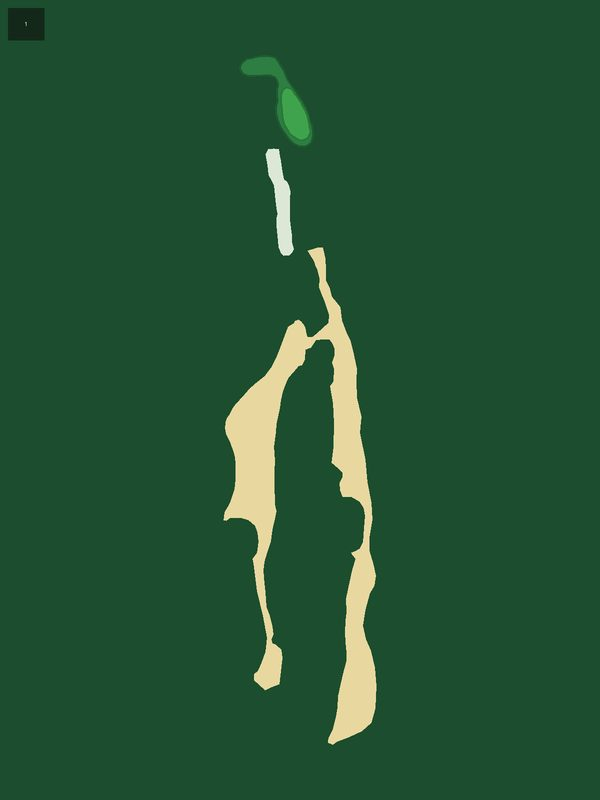
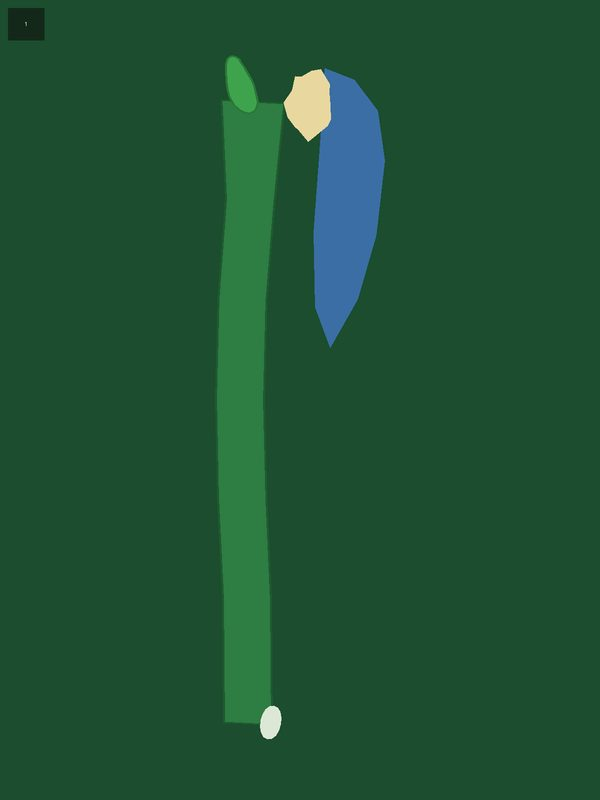
Ocean Course Kiawah Island: fix map geometry (H1/H12/H13/H16 water, H2 mirror) + to-pin markers + distance scales

Changed region(s): [[0.36, 0.0625, 0.66, 0.9375]]

diff --git a/app/lib/widgets/hole_map_manifest.dart b/app/lib/widgets/hole_map_manifest.dart
@@ -292,24 +292,24 @@ const holeMapManifest = <String, Map<int, HoleMapAsset>>{
     18: HoleMapAsset(par: 4, map: 'assets/hole_maps/tpc-southwind/18.jpg', mask: 'assets/hole_maps/tpc-southwind/18_mask.png', tee: Offset(0.362, 0.916), pin: Offset(0.359, 0.131), source: 'osm'),
   },
   'The Ocean Course at Kiawah Island': {
-    1: HoleMapAsset(par: 4, map: 'assets/hole_maps/ocean-course-kiawah-island/1.jpg', mask: 'assets/hole_maps/ocean-course-kiawah-island/1_mask.png', tee: Offset(0.456, 0.903), pin: Offset(0.491, 0.144), source: 'osm'),
+    1: HoleMapAsset(par: 4, map: 'assets/hole_maps/ocean-course-kiawah-island/1.jpg', mask: 'assets/hole_maps/ocean-course-kiawah-island/1_mask.png', tee: Offset(0.451, 0.903), pin: Offset(0.404, 0.106), source: 'osm'),
     2: HoleMapAsset(par: 5, map: 'assets/hole_maps/ocean-course-kiawah-island/2.jpg', mask: 'assets/hole_maps/ocean-course-kiawah-island/2_mask.png', tee: Offset(0.441, 0.885), pin: Offset(0.469, 0.193), source: 'synthetic'),
     3: HoleMapAsset(par: 4, map: 'assets/hole_maps/ocean-course-kiawah-island/3.jpg', mask: 'assets/hole_maps/ocean-course-kiawah-island/3_mask.png', tee: Offset(0.411, 0.889), pin: Offset(0.407, 0.099), source: 'synthetic'),
-    4: HoleMapAsset(par: 4, map: 'assets/hole_maps/ocean-course-kiawah-island/4.jpg', mask: 'assets/hole_maps/ocean-course-kiawah-island/4_mask.png', tee: Offset(0.580, 0.917), pin: Offset(0.579, 0.125), source: 'synthetic'),
-    5: HoleMapAsset(par: 3, map: 'assets/hole_maps/ocean-course-kiawah-island/5.jpg', mask: 'assets/hole_maps/ocean-course-kiawah-island/5_mask.png', tee: Offset(0.382, 0.758), pin: Offset(0.394, 0.160), source: 'synthetic'),
+    4: HoleMapAsset(par: 4, map: 'assets/hole_maps/ocean-course-kiawah-island/4.jpg', mask: 'assets/hole_maps/ocean-course-kiawah-island/4_mask.png', tee: Offset(0.580, 0.917), pin: Offset(0.579, 0.125), source: 'synthetic', yardages: const [YardageMarker(offset: Offset(0.508, 0.431), yards: 195), YardageMarker(offset: Offset(0.509, 0.475), yards: 216), YardageMarker(offset: Offset(0.507, 0.528), yards: 249)], yardsPerPixel: 0.7561),
+    5: HoleMapAsset(par: 3, map: 'assets/hole_maps/ocean-course-kiawah-island/5.jpg', mask: 'assets/hole_maps/ocean-course-kiawah-island/5_mask.png', tee: Offset(0.382, 0.758), pin: Offset(0.394, 0.160), source: 'synthetic', yardages: const [YardageMarker(offset: Offset(0.421, 0.132), yards: -14), YardageMarker(offset: Offset(0.436, 0.236), yards: 34), YardageMarker(offset: Offset(0.380, 0.399), yards: 99)], yardsPerPixel: 0.5163),
     6: HoleMapAsset(par: 4, map: 'assets/hole_maps/ocean-course-kiawah-island/6.jpg', mask: 'assets/hole_maps/ocean-course-kiawah-island/6_mask.png', tee: Offset(0.447, 0.916), pin: Offset(0.445, 0.106), source: 'synthetic'),
     7: HoleMapAsset(par: 5, map: 'assets/hole_maps/ocean-course-kiawah-island/7.jpg', mask: 'assets/hole_maps/ocean-course-kiawah-island/7_mask.png', tee: Offset(0.559, 0.918), pin: Offset(0.560, 0.132), source: 'synthetic'),
     8: HoleMapAsset(par: 3, map: 'assets/hole_maps/ocean-course-kiawah-island/8.jpg', mask: 'assets/hole_maps/ocean-course-kiawah-island/8_mask.png', tee: Offset(0.451, 0.848), pin: Offset(0.447, 0.205), source: 'synthetic'),
-    9: HoleMapAsset(par: 4, map: 'assets/hole_maps/ocean-course-kiawah-island/9.jpg', mask: 'assets/hole_maps/ocean-course-kiawah-island/9_mask.png', tee: Offset(0.436, 0.889), pin: Offset(0.436, 0.093), source: 'synthetic'),
-    10: HoleMapAsset(par: 4, map: 'assets/hole_maps/ocean-course-kiawah-island/10.jpg', mask: 'assets/hole_maps/ocean-course-kiawah-island/10_mask.png', tee: Offset(0.527, 0.907), pin: Offset(0.527, 0.172), source: 'osm'),
+    9: HoleMapAsset(par: 4, map: 'assets/hole_maps/ocean-course-kiawah-island/9.jpg', mask: 'assets/hole_maps/ocean-course-kiawah-island/9_mask.png', tee: Offset(0.436, 0.889), pin: Offset(0.436, 0.093), source: 'synthetic', yardsPerPixel: 0.7837),
+    10: HoleMapAsset(par: 4, map: 'assets/hole_maps/ocean-course-kiawah-island/10.jpg', mask: 'assets/hole_maps/ocean-course-kiawah-island/10_mask.png', tee: Offset(0.527, 0.907), pin: Offset(0.527, 0.172), source: 'osm', yardsPerPixel: 0.7606),
     11: HoleMapAsset(par: 5, map: 'assets/hole_maps/ocean-course-kiawah-island/11.jpg', mask: 'assets/hole_maps/ocean-course-kiawah-island/11_mask.png', tee: Offset(0.471, 0.729), pin: Offset(0.471, 0.481), source: 'osm'),
-    12: HoleMapAsset(par: 4, map: 'assets/hole_maps/ocean-course-kiawah-island/12.jpg', mask: 'assets/hole_maps/ocean-course-kiawah-island/12_mask.png', tee: Offset(0.519, 0.916), pin: Offset(0.518, 0.164), source: 'osm'),
-    13: HoleMapAsset(par: 4, map: 'assets/hole_maps/ocean-course-kiawah-island/13.jpg', mask: 'assets/hole_maps/ocean-course-kiawah-island/13_mask.png', tee: Offset(0.571, 0.913), pin: Offset(0.571, 0.243), source: 'osm'),
-    14: HoleMapAsset(par: 3, map: 'assets/hole_maps/ocean-course-kiawah-island/14.jpg', mask: 'assets/hole_maps/ocean-course-kiawah-island/14_mask.png', tee: Offset(0.534, 0.861), pin: Offset(0.534, 0.279), source: 'osm'),
+    12: HoleMapAsset(par: 4, map: 'assets/hole_maps/ocean-course-kiawah-island/12.jpg', mask: 'assets/hole_maps/ocean-course-kiawah-island/12_mask.png', tee: Offset(0.519, 0.916), pin: Offset(0.518, 0.164), source: 'osm', yardages: const [YardageMarker(offset: Offset(0.540, 0.454), yards: 197), YardageMarker(offset: Offset(0.457, 0.500), yards: 223), YardageMarker(offset: Offset(0.536, 0.501), yards: 226)], yardsPerPixel: 0.8109),
+    13: HoleMapAsset(par: 4, map: 'assets/hole_maps/ocean-course-kiawah-island/13.jpg', mask: 'assets/hole_maps/ocean-course-kiawah-island/13_mask.png', tee: Offset(0.571, 0.913), pin: Offset(0.571, 0.243), source: 'osm', yardages: const [YardageMarker(offset: Offset(0.486, 0.478), yards: 193), YardageMarker(offset: Offset(0.487, 0.518), yards: 214), YardageMarker(offset: Offset(0.583, 0.597), yards: 272)], yardsPerPixel: 0.9272),
+    14: HoleMapAsset(par: 3, map: 'assets/hole_maps/ocean-course-kiawah-island/14.jpg', mask: 'assets/hole_maps/ocean-course-kiawah-island/14_mask.png', tee: Offset(0.534, 0.861), pin: Offset(0.534, 0.279), source: 'osm', yardsPerPixel: 0.5111),
     15: HoleMapAsset(par: 4, map: 'assets/hole_maps/ocean-course-kiawah-island/15.jpg', mask: 'assets/hole_maps/ocean-course-kiawah-island/15_mask.png', tee: Offset(0.461, 0.914), pin: Offset(0.463, 0.179), source: 'osm'),
-    16: HoleMapAsset(par: 5, map: 'assets/hole_maps/ocean-course-kiawah-island/16.jpg', mask: 'assets/hole_maps/ocean-course-kiawah-island/16_mask.png', tee: Offset(0.531, 0.698), pin: Offset(0.531, 0.509), source: 'osm'),
-    17: HoleMapAsset(par: 3, map: 'assets/hole_maps/ocean-course-kiawah-island/17.jpg', mask: 'assets/hole_maps/ocean-course-kiawah-island/17_mask.png', tee: Offset(0.489, 0.902), pin: Offset(0.491, 0.168), source: 'osm'),
-    18: HoleMapAsset(par: 4, map: 'assets/hole_maps/ocean-course-kiawah-island/18.jpg', mask: 'assets/hole_maps/ocean-course-kiawah-island/18_mask.png', tee: Offset(0.586, 0.814), pin: Offset(0.572, 0.109), source: 'osm'),
+    16: HoleMapAsset(par: 5, map: 'assets/hole_maps/ocean-course-kiawah-island/16.jpg', mask: 'assets/hole_maps/ocean-course-kiawah-island/16_mask.png', tee: Offset(0.510, 0.898), pin: Offset(0.495, 0.166), source: 'osm'),
+    17: HoleMapAsset(par: 3, map: 'assets/hole_maps/ocean-course-kiawah-island/17.jpg', mask: 'assets/hole_maps/ocean-course-kiawah-island/17_mask.png', tee: Offset(0.489, 0.902), pin: Offset(0.491, 0.168), source: 'osm', yardages: const [YardageMarker(offset: Offset(0.450, 0.189), yards: 1), YardageMarker(offset: Offset(0.427, 0.459), yards: 84)], yardsPerPixel: 0.3923),
+    18: HoleMapAsset(par: 4, map: 'assets/hole_maps/ocean-course-kiawah-island/18.jpg', mask: 'assets/hole_maps/ocean-course-kiawah-island/18_mask.png', tee: Offset(0.586, 0.814), pin: Offset(0.572, 0.109), source: 'osm', yardages: const [YardageMarker(offset: Offset(0.451, 0.398), yards: 229), YardageMarker(offset: Offset(0.451, 0.421), yards: 250)], yardsPerPixel: 0.9327),
   },
   'The Old Course at St Andrews': {
     1: HoleMapAsset(par: 4, map: 'assets/hole_maps/old-course-st-andrews/1.jpg', mask: 'assets/hole_maps/old-course-st-andrews/1_mask.png', tee: Offset(0.478, 0.902), pin: Offset(0.478, 0.136), source: 'traced', yardages: const [YardageMarker(offset: Offset(0.493, 0.632), yards: 237)], yardsPerPixel: 0.5989),
